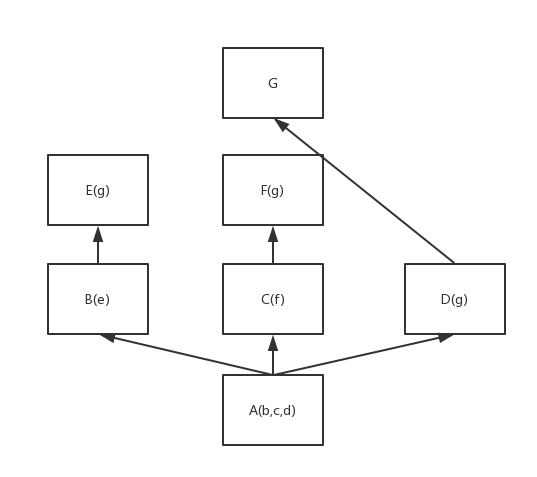
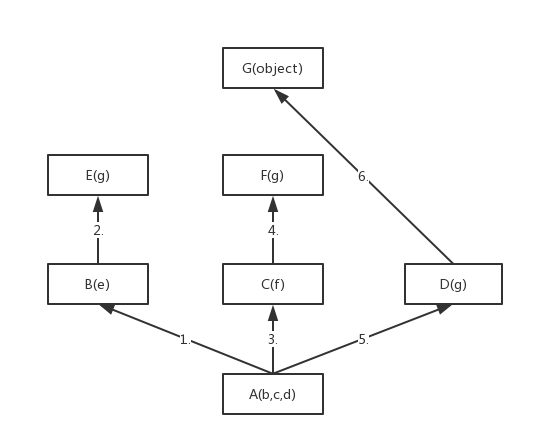
sdf

diff --git a/homework/test.py b/homework/test.py
@@ -1,23 +1,28 @@
-class Company:  # 父类
-    name = 'Company' # 父类的name数据属性
-    def transaction(self):  # 类的函数属性，转账
-        print("Transaction monry to your Comany")
-        self.purchase()  # 调用实例的采购函数
+class G(object):
+    def show(self):
+        print("I am G")
 
+class F(G):
+    def show(self):
+        print("I am F")
 
-    def purchase(self):  # 类的函数属性，采购
-        print("Your Comany can purchase something.")
+class E(G):
+    def show(self):
+        print("I am E")
 
+class D(G):
+    def show(self):
+        print("I am D")
 
-class Baidu(Company):  # Baidu类继承Company父类
-    name = 'Baidu'  # 派生一个自己的数据属性
-    def purchase(self):  # 派生一个自己的采购函数属性
-        print("My Comany can purchase Phone.")
+class C(F):
+    def show(self):
+        print("I am C")
 
-    def website(self):  # 派生一个自己专用的website函数属性。父中没有
-        print("www.badiu.com")
+class B(E):
+    def show(self):
+        print("I am B")
 
+class A(B, C ,D):
+    pass
 
-baidu = Baidu()  # 使用中国类创建一个百度的实例
-baidu.website()
-print(Baidu.mro())
+print(A.mro())
